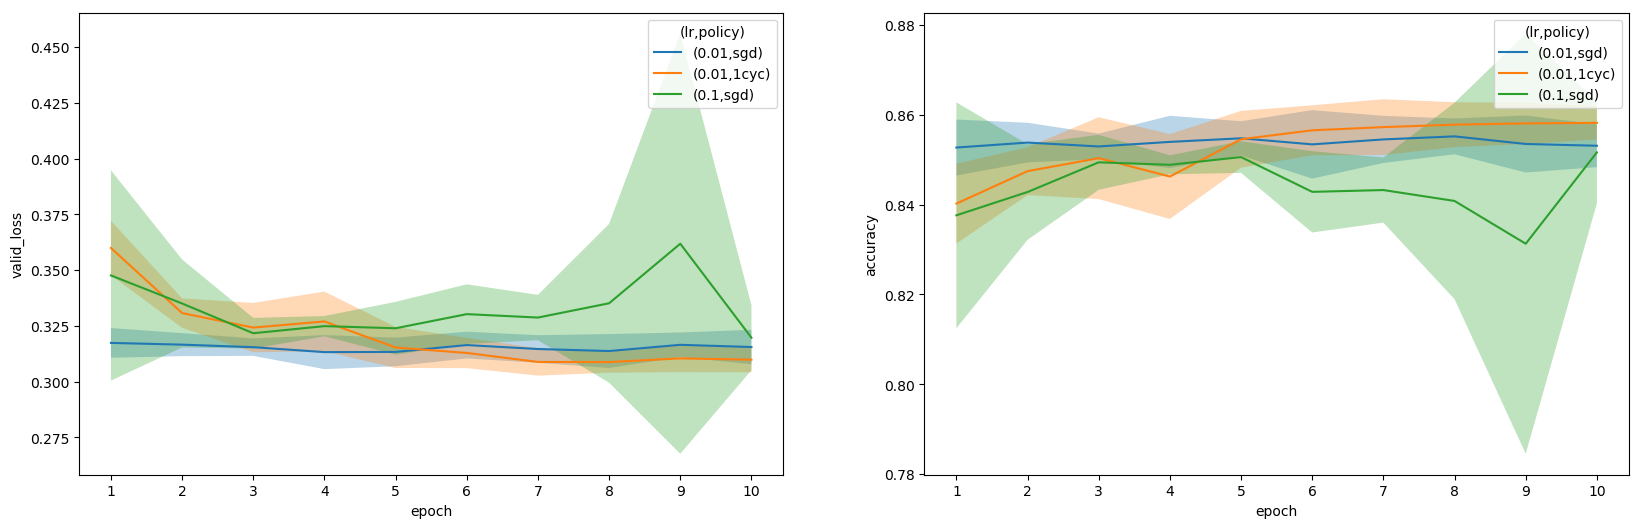
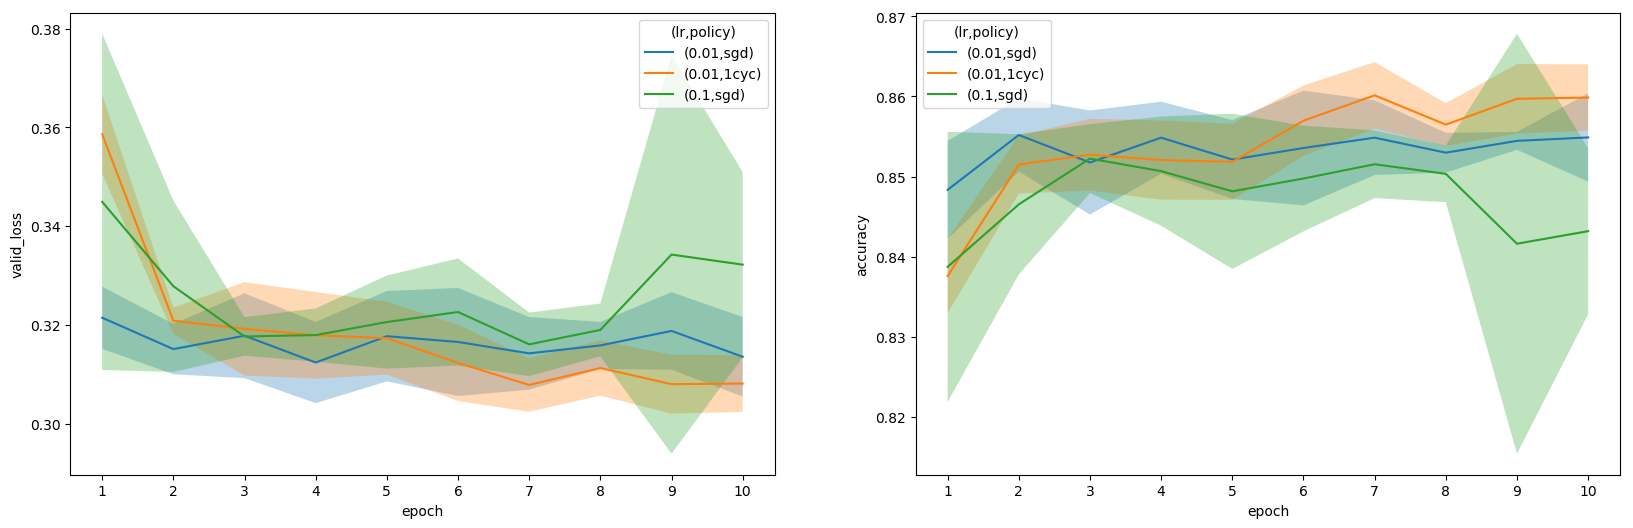
1cycle

diff --git a/code/chapter4/sgd_onec.py b/code/chapter4/sgd_onec.py
@@ -23,32 +23,32 @@ df, dep_var, num_vars, cat_vars = prepare_data(path)
 
 experiment_name, exp_path = create_experiment('sgd_1cyc', path)
 
-# config={'lr':[1e-2, 1e-1], 'policy':['sgd', '1cyc']}
-# config_df = get_config_df(config)
-# config_df = config_df.iloc[:3,:]
+config={'lr':[1e-2, 1e-1], 'policy':['sgd', '1cyc']}
+config_df = get_config_df(config)
+config_df = config_df.iloc[:3,:]
 
-# procs = [FillMissing, Categorify, Normalize]
+procs = [FillMissing, Categorify, Normalize]
 
-# src = TabularList.from_df(df, path=path, cat_names=cat_vars, cont_names=num_vars, procs=procs)
-# kf = KFold(5, random_state=42, shuffle=True)
-# # _,valid_ids = next(kf.split(df))
+src = TabularList.from_df(df, path=path, cat_names=cat_vars, cont_names=num_vars, procs=procs)
+kf = KFold(5, random_state=42, shuffle=True)
+# _,valid_ids = next(kf.split(df))
 
-# config_df.to_csv(exp_path/'config.csv')
-# for i, params in config_df.iterrows():
-#     for fold, (train_ids, valid_ids) in enumerate(kf.split(df)):
-#         data = (src.split_by_idx(valid_ids).label_from_df(cols=dep_var).databunch(bs=512))
+config_df.to_csv(exp_path/'config.csv')
+for i, params in config_df.iterrows():
+    for fold, (train_ids, valid_ids) in enumerate(kf.split(df)):
+        data = (src.split_by_idx(valid_ids).label_from_df(cols=dep_var).databunch(bs=512))
 
-#         learn = tabular_learner(data, layers=[200,200], metrics=accuracy)
-#         record_experiment(learn, f'{i}-fold_{fold+1}', exp_path.relative_to(path))
+        learn = tabular_learner(data, layers=[200,200], metrics=accuracy)
+        record_experiment(learn, f'{i}-fold_{fold+1}', exp_path.relative_to(path))
         
-#         if params['policy'] == 'sgd': learn.fit(10, params['lr'])
-#         else: learn.fit_one_cycle(10, params['lr'])
+        if params['policy'] == 'sgd': learn.fit(10, params['lr'])
+        else: learn.fit_one_cycle(10, params['lr'])
 
 config_df, recorder_df, param_names, metric_names = load_results(exp_path)
 summary_df = summarise_results(recorder_df, param_names, metric_names)
 
-# plot_best(summary_df, param_names, metric_names)
-# plt.savefig(exp_path/'best.png', bbox_inches='tight')
+plot_best(summary_df, param_names, metric_names)
+plt.savefig(exp_path/'best.png', bbox_inches='tight')
 
 plot_over_epochs(summary_df, param_names, metric_names, config_df)
-plt.savefig(exp_path/'all_epochs2.png', bbox_inches='tight')
+plt.savefig(exp_path/'all_epochs.png', bbox_inches='tight')
